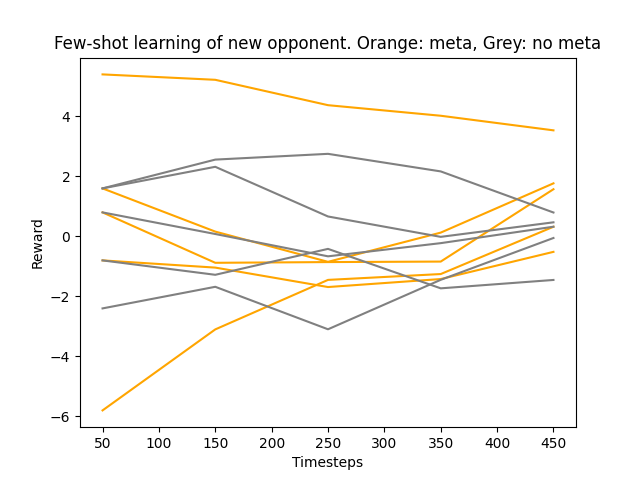
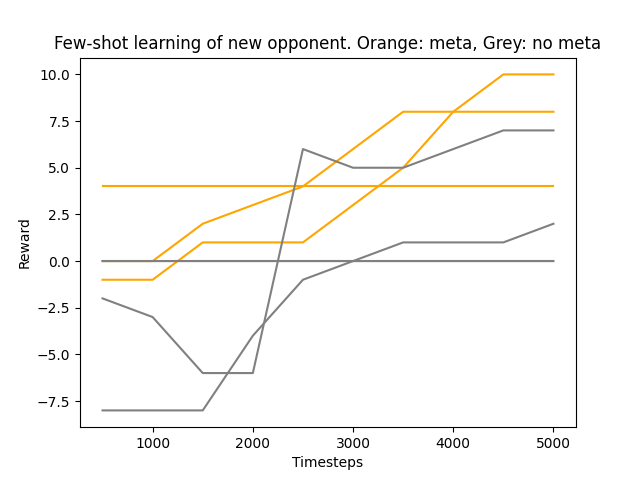
fix bug with callback

diff --git a/run_mlp_policy_meta.py b/run_mlp_policy_meta.py
@@ -2,7 +2,7 @@ import gym
 import myenvs
 import torch as th
 
-from stable_baselines3 import PPO
+from stable_baselines3 import PPO, DQN
 from stable_baselines3.common.callbacks import EvalCallback
 from rps_policy import policies
 import numpy as np
@@ -28,25 +28,26 @@ test_meta_env = gym.make('rps-meta-v0')
 eval_callback = EvalCallback(test_meta_env, eval_freq=1000, deterministic=True, render=False)
 
 
-policy_kwargs = dict(activation_fn=th.nn.ReLU, net_arch=[8,8])
-n_steps, batch_size, n_epochs =  20, 20, 10
+policy_kwargs = dict(activation_fn=th.nn.ReLU, net_arch=[30,30])
+n_steps, batch_size, n_epochs =  50, 50, 10
 
 model = PPO("MlpPolicy", meta_env, policy_kwargs=policy_kwargs, n_steps=n_steps, batch_size=batch_size, n_epochs=n_epochs, verbose=0)
-model.learn(total_timesteps=20000, callback=eval_callback, meta_learn=False)        # no meta learning
-#model.learn(total_timesteps=20000, callback=eval_callback, meta_learn=True)     # meta learning
+#model.learn(total_timesteps=100000, callback=eval_callback, meta_learn=False)        # no meta learning
+model.learn(total_timesteps=100000, callback=eval_callback, meta_learn=True)     # meta learning
 
 opponent_policies = [
     np.array([0,1,2,0,1]),
     np.array([1,2,2,1,0]),
     np.array([2,1,0,0,0]),
-    np.array([2,2,1,1,0]),
-    np.array([0,1,2,2,2]),
+    #np.array([2,2,1,1,0]),
+    #np.array([0,1,2,2,2]),
 ]
-eval_callback_test = EvalCallback(test_meta_env, eval_freq=50, deterministic=True, render=False)
+eval_callback_test = EvalCallback(test_meta_env, eval_freq=500, deterministic=True, render=False)
 for opponent_policy in opponent_policies:
     meta_env.fixed_opponent_policy = opponent_policy
+    test_meta_env.fixed_opponent_policy = opponent_policy
     model.set_env(meta_env)
-    model.learn(total_timesteps=500, callback=eval_callback_test, meta_learn=False)
+    model.learn(total_timesteps=2000, callback=eval_callback_test, meta_learn=False)
 
 
 

diff --git a/myenvs/envs/rps_env_meta.py b/myenvs/envs/rps_env_meta.py
@@ -4,10 +4,11 @@ import numpy as np
 
 N_DISCRETE_ACTIONS = 3
 DENSE_DIM = 10
+MAX_GAMES = 20
 
 class RPSEnvMeta(gym.Env):
     """Custom Environment that follows gym interface"""
-    def __init__(self, opp_repeat_length=5, max_games=20):
+    def __init__(self, opp_repeat_length=5, max_games=MAX_GAMES):
         super(RPSEnvMeta, self).__init__()
         self.games_count = 0
         self.policy_count = 0
@@ -16,7 +17,7 @@ class RPSEnvMeta(gym.Env):
         self.opponent_action_counter = 0
 
         self.action_space = spaces.Discrete(N_DISCRETE_ACTIONS)
-        self.observation_space = spaces.MultiDiscrete([N_DISCRETE_ACTIONS, N_DISCRETE_ACTIONS])
+        self.observation_space = spaces.MultiDiscrete([MAX_GAMES+1])
         self.max_games = max_games
 
         self.fixed_opponent_policy = None # used when testing
@@ -31,11 +32,11 @@ class RPSEnvMeta(gym.Env):
         opponent_action = self.opponent_policy[self.opponent_action_counter]
         self.opponent_action_counter = (self.opponent_action_counter + 1) % self.opponent_repeat_length
 
-        obs = np.array([opponent_action, my_action])
         reward = self.get_reward(my_action, opponent_action)
         self.games_count += 1
+        obs = np.array([self.games_count])
         done = (self.games_count == self.max_games)
-
+        #print(self.games_count, my_action, opponent_action, reward)
         return obs, reward, done, {}
 
     def reset(self):
@@ -46,7 +47,7 @@ class RPSEnvMeta(gym.Env):
         if self.fixed_opponent_policy is not None: self.opponent_policy = self.fixed_opponent_policy
         self.opponent_action_counter = 0
         self.render()
-        return np.array([0, 0])
+        return np.array([self.games_count])
 
     def render(self, mode='human', close=False):
         # Render the environment to the screen

diff --git a/plot_meta.py b/plot_meta.py
@@ -44,8 +44,8 @@ colors = ["orange", "gray"]
 
 for file, color in zip(files, colors):
     for x,y in zip(data[file]["x"], data[file]["y"]):
-        x, y = x[::2], y[::2]
-        y = smooth(y, 0.7)
+        x, y = x[:10], y[:10]
+        y = smooth(y, 0.0)
         plt.plot(x, y, color=color)
 
 plt.xlabel("Timesteps")
